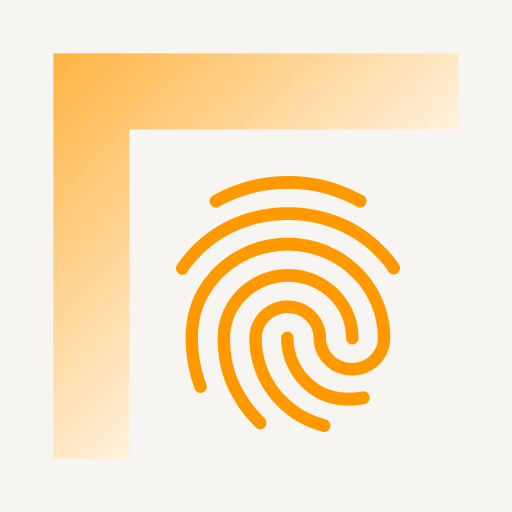
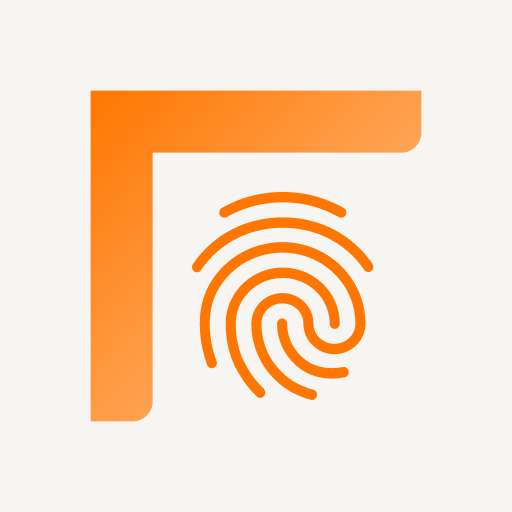
dev:更新logo

diff --git a/nuxt.config.ts b/nuxt.config.ts
@@ -15,7 +15,7 @@ export default defineNuxtConfig({
     head: {
       viewport: 'width=device-width,initial-scale=1',
       link: [
-        { rel: 'icon', type: 'image/svg+xml', href: '/favicon.ico' },
+        { rel: 'icon', type: 'image/svg+xml', href: '/nacl.svg' },
         { rel: 'apple-touch-icon', href: '/apple-touch-icon.png' },
       ],
       meta: [

diff --git a/components/Navbar.vue b/components/Navbar.vue
@@ -1,7 +1,7 @@
 <template>
     <nav class="navbar">
         <a class="navbar-logo" href="/">
-            <img src="/logo.svg" alt="logo" />
+            <img src="/nacl.svg" alt="logo" />
         </a>
         <div class="action">
             <div class="icon" @click="toggle('/add')"><img src="/add.svg" alt="SVG Icon"></div>
